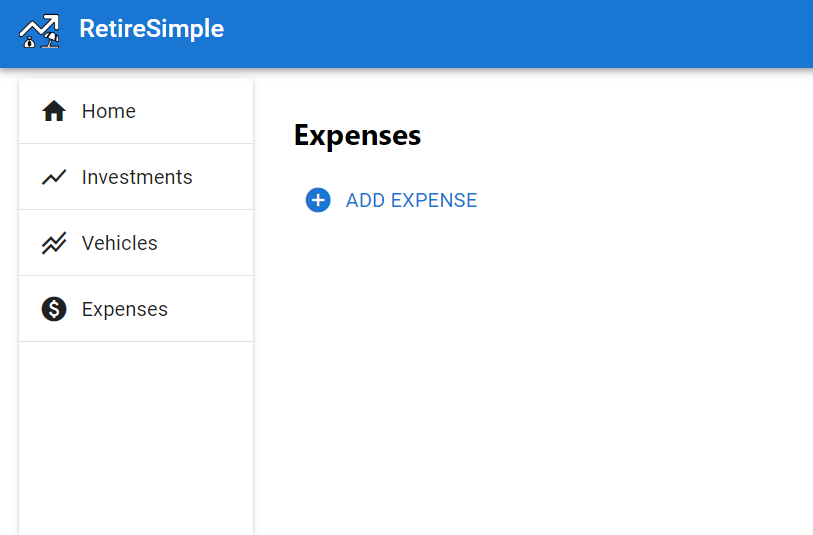
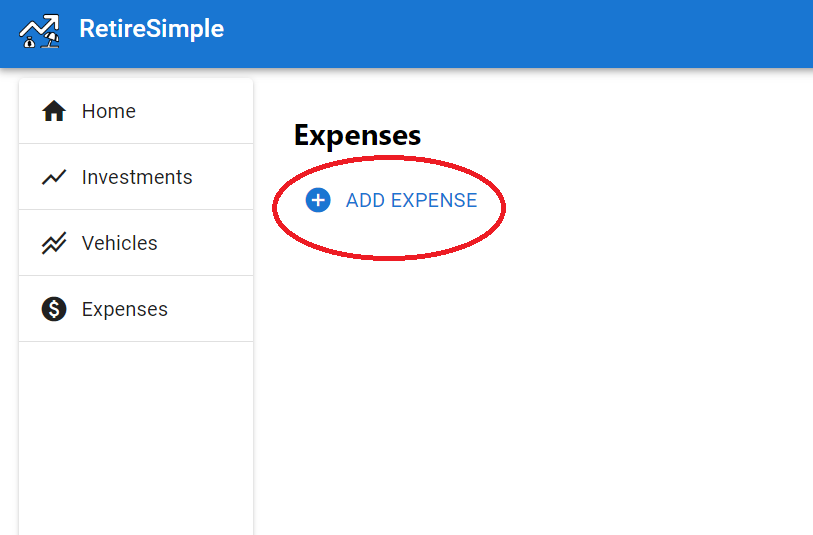
base version of set-up slideshow complete

diff --git a/RetireSimple.Frontend/src/pages/SetUpPage.tsx b/RetireSimple.Frontend/src/pages/SetUpPage.tsx
@@ -1,73 +1,33 @@
 import {Box, Typography} from '@mui/material';
-import React from 'react';
 import { Link } from 'react-router-dom'; 
 import SettingsNav from './SettingsNav';
+import React, { useState } from 'react';
   
 export function SetUpPage() { 
-	return (<div>
-		<SettingsNav />
-		<h1>How to Use RetireSimple</h1>
-		<Box sx={{padding: '2rem'}}>
-			<br />
-			<Typography variant='body1'>
-				This software and its source code is licensed under and subject to the terms of
-				the <Link to='https://opensource.org/licenses/MIT'>MIT License</Link>
-			</Typography>
-			<Typography variant='body1'>
-				Source Code is available on{' '}
-				<Link to='https://github.com/braydendavis1/RetireSimple-dev-fall'>GitHub</Link>.
-			</Typography>
-			<br />
-			<Typography variant='h6'>DISCLAIMER</Typography>
-			<Typography variant='body1'>
-				<strong>
-					The information provided/generated by RetireSimple and its Engine should not
-					be the only source of information you use to make financial decisions. You
-					should consult with a certified financial professional (especially one that
-					is a certified fiduciary) before making any financial decisions or taking
-					any actions related to your finances.
-				</strong>
-			</Typography>
-			<br />
-			<Typography variant='body1'>
-				<strong>
-					RetireSimple and any derivative application using the RetireSimple Engine is
-					not responsible for any financial decisions or actions you take based on the
-					information provided/generated by RetireSimple.
-				</strong>
-			</Typography>
-		</Box>
-	</div>
-	);
-} 
 
-// const SlideshowModal = ({ onClose }) => {
-//     const [images, setImages] = useState([]);
+	const [currentIndex, setCurrentIndex] = useState(0);
   
-//     useEffect(() => {
-//       // Fetch images from backend API
-//       fetchImagesFromBackend()
-//         .then(images => setImages(images))
-//         .catch(error => console.error('Error fetching images:', error));
-//     }, []);
+	// Array of image URLs
+	const imageUrls = [
+		'/images/AddExpense.PNG',
+		'/images/ExpenseInfo.PNG',
+		'/images/AddInvestment.PNG',
+		'/images/InvestmentInfo.PNG',
+		'/images/AddVehicle.PNG',
+		'/images/VehicleInfo.PNG',
+	];
+
+	const handleClick = () => {
+		// Increment currentIndex, looping back to 0 if at the end
+		setCurrentIndex((prevIndex) => (prevIndex + 1) % imageUrls.length);
+	};
   
-//     const fetchImagesFromBackend = async () => {
-//       // Make API call to fetch images from backend
-//       const response = await fetch('/api/images');
-//       const data = await response.json();
-//       return data.images; // Assuming the response contains an array of image URLs
-//     };
-  
-//     return (
-//       <div className="modal">
-//         <div className="modal-content">
-//           <span className="close-btn" onClick={onClose}>&times;</span>
-//           <div className="slideshow">
-//             {images.map((image, index) => (
-//               <img key={index} src={image} alt={`Slide ${index}`} />
-//             ))}
-//           </div>
-//         </div>
-//       </div>
-//     );
-//   };
+	return (
+		<div>
+			<button onClick={handleClick}>Click to see how to use RetireSimple</button>
+			<div>
+				<img src={imageUrls[currentIndex]} alt={`Image ${currentIndex + 1}`} />
+			</div>
+		</div>
+	);
+}

diff --git a/RetireSimple.Frontend/src/index.tsx b/RetireSimple.Frontend/src/index.tsx
@@ -14,6 +14,7 @@ import {Layout} from './Layout';
 import {InvestmentsPage} from './pages/InvestmentsPage';
 import {VehiclesPage} from './pages/VehiclesPage';
 import {AboutPage} from './pages/AboutPage';
+import {SetUpPage} from './pages/SetUpPage';
 import './index.css';
 import { HelpPage } from './pages/HelpPage';
 import { ExpensesPage } from './pages/ExpensesPage';
@@ -161,6 +162,12 @@ const router = createBrowserRouter(
 				path='Settings/'
 				element={
 					<SettingsPage />
+				}
+			/>
+			<Route
+				path='SetUpPage/'
+				element={
+					<SetUpPage />
 				}
 			/>
 			<Route
